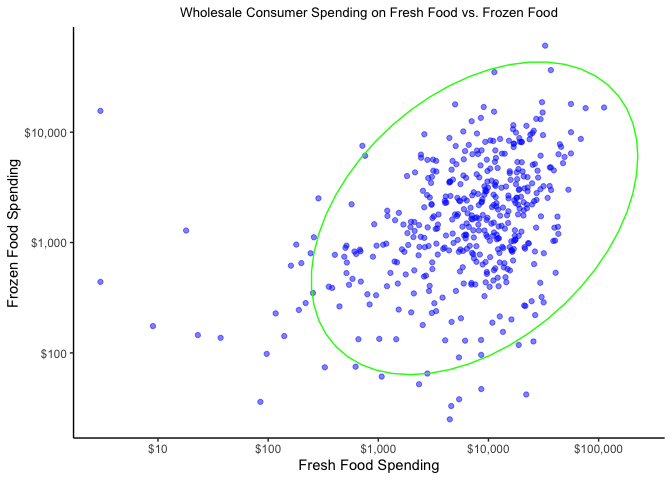
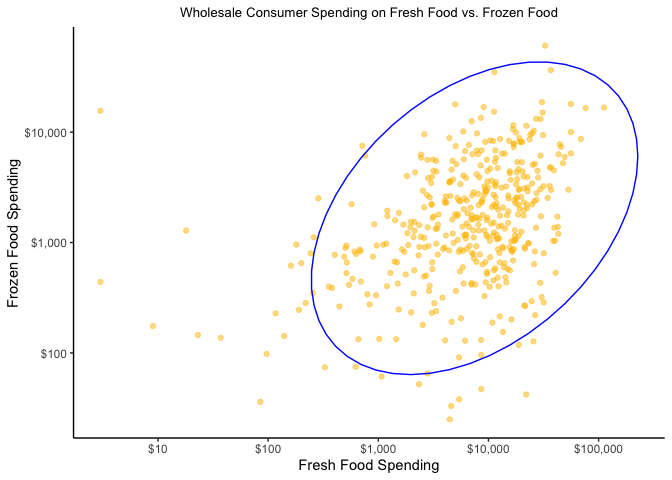
Sunday Night Push

diff --git a/Wholesale-Customer-Spending-Clustering.md b/Wholesale-Customer-Spending-Clustering.md
@@ -18,12 +18,19 @@ Rex Manglicmot
 -   <a href="#clustering" id="toc-clustering">Clustering</a>
 -   <a href="#limitations" id="toc-limitations">Limitations</a>
 -   <a href="#conclusions" id="toc-conclusions">Conclusions</a>
+-   <a href="#appendix" id="toc-appendix">Appendix</a>
 -   <a href="#inspiration-for-this-project"
     id="toc-inspiration-for-this-project">Inspiration for this project</a>
 
 ## Status: Continuing Working Document
 
 ## Introduction
+
+<center>
+
+![](https://bestlifeonline.com/wp-content/uploads/sites/3/2018/10/costco-shopping-aisle.jpg?quality=82&strip=1&resize=1250%2C702)
+
+</center>
 
 1)  FRESH: annual spending (m.u.) on fresh products (Continuous);
 2)  MILK: annual spending (m.u.) on milk products (Continuous);
@@ -139,10 +146,10 @@ How much do people spend on fresh versus frozen? Let’s display it.
 ``` r
 #fresh and frozen scatterplot
 ggplot(data, aes(fres, fro)) +
-  geom_point(position = 'jitter', alpha=0.5, color= 'blue') +
+  geom_point(position = 'jitter', alpha=0.5, color= '#FFBF00') +
   scale_y_continuous(trans = 'log10', labels = dollar) +
   scale_x_continuous(trans = 'log10', labels = dollar) +
-  stat_ellipse(level = .99, color = "green") +
+  stat_ellipse(level = .99, color = "blue") +
   theme_classic()+
 labs(title = 'Wholesale Consumer Spending on Fresh Food vs. Frozen Food',
      x = 'Fresh Food Spending',
@@ -154,12 +161,31 @@ labs(title = 'Wholesale Consumer Spending on Fresh Food vs. Frozen Food',
 ![](Wholesale-Customer-Spending-Clustering_files/figure-gfm/unnamed-chunk-5-1.png)<!-- -->
 
 ``` r
-#detergeents and delicacies
-ggplot(data, aes(depa, deli)) +
-  geom_point(position = 'jitter', alpha=.5, color = 'red') +
+#2d density estimation
+ggplot(data, aes(fres, fro)) +
+  geom_point(alpha = 0.5, color = '#FFBF00', position = 'jitter') +
   scale_y_continuous(trans = 'log10', labels = dollar) +
   scale_x_continuous(trans = 'log10', labels = dollar) +
-  stat_ellipse(level = .99, color = "green") +   
+  geom_density_2d() +
+  theme_classic() +labs(title = 'Wholesale Consumer Spending on Fresh Food vs. Frozen Food',
+     x = 'Fresh Food Spending',
+     y = 'Frozen Food Spending') +
+   theme(plot.title = element_text(hjust = 0.5, size=10),
+        plot.caption = element_text(hjust = 0.5))
+```
+
+![](Wholesale-Customer-Spending-Clustering_files/figure-gfm/unnamed-chunk-6-1.png)<!-- -->
+
+How much do people spend on detergents (non-foods) versus delicacies
+(food)? Let’s display it.
+
+``` r
+#detergeents and delicacies
+ggplot(data, aes(depa, deli)) +
+  geom_point(position = 'jitter', alpha=.5, color = '#E34234') +
+  scale_y_continuous(trans = 'log10', labels = dollar) +
+  scale_x_continuous(trans = 'log10', labels = dollar) +
+  stat_ellipse(level = .99, color = "blue") +   
   theme_classic() +
 labs(title = 'Wholesale Consumer Spending on Detergents vs. Delicacies',
      x = 'Detergent Spending',
@@ -168,12 +194,92 @@ labs(title = 'Wholesale Consumer Spending on Detergents vs. Delicacies',
         plot.caption = element_text(hjust = 0.5))
 ```
 
-![](Wholesale-Customer-Spending-Clustering_files/figure-gfm/unnamed-chunk-6-1.png)<!-- -->
+![](Wholesale-Customer-Spending-Clustering_files/figure-gfm/unnamed-chunk-7-1.png)<!-- -->
+
+``` r
+#2d density estimation
+ggplot(data, aes(depa, deli)) +
+  geom_point(position = 'jitter', alpha=.5, color = '#E34234')+
+  scale_y_continuous(trans = 'log10', labels = dollar) +
+  scale_x_continuous(trans = 'log10', labels = dollar) +
+  geom_density_2d() +
+  theme_classic() +
+  labs(title = 'Wholesale Consumer Spending on Detergents vs. Delicacies',
+     x = 'Detergent Spending',
+     y = 'Delicacy Spending') +
+   theme(plot.title = element_text(hjust = 0.5, size=10),
+        plot.caption = element_text(hjust = 0.5))
+```
+
+![](Wholesale-Customer-Spending-Clustering_files/figure-gfm/unnamed-chunk-8-1.png)<!-- -->
+
+How much do people spend on milk?
+
+``` r
+#create a histogram
+ggplot(data, aes(milk)) +
+  geom_histogram(color='#6E260E', fill = '#964B00') +
+  scale_x_continuous(trans = 'log10', labels = dollar) +
+  theme_classic() +
+  labs(title = 'Wholesale Consumer Spending Milk',
+     x = 'Milk Spending',
+     y = 'Count') +
+   theme(plot.title = element_text(hjust = 0.5, size=10),
+        plot.caption = element_text(hjust = 0.5))
+```
+
+![](Wholesale-Customer-Spending-Clustering_files/figure-gfm/unnamed-chunk-9-1.png)<!-- -->
+
+``` r
+ggplot(data, aes(milk, groc)) +
+  geom_bin2d(bins = 20, color ="white")+
+  scale_fill_gradient(low =  "#F2D2BD", high = "#FF00FF")+
+  theme_minimal() +
+  scale_y_continuous(trans = 'log10', labels = dollar) +
+  scale_x_continuous(trans = 'log10', labels = dollar) +
+    theme_classic() +
+   labs(title = 'Wholesale Consumer Spending Milk versus Grocery',
+     x = 'Milk Spending',
+     y = 'Gorcery Spending') +
+   theme(plot.title = element_text(hjust = 0.5, size=10),
+        plot.caption = element_text(hjust = 0.5))
+```
+
+![](Wholesale-Customer-Spending-Clustering_files/figure-gfm/unnamed-chunk-10-1.png)<!-- -->
+
+``` r
+ggplot(data, aes(milk, fro)) +
+  geom_bin2d(bins = 20, color ="white")+
+  scale_fill_gradient(low =  "#B6D0E2", high = "#6E260E")+
+  theme_minimal() +
+  scale_y_continuous(trans = 'log10', labels = dollar) +
+  scale_x_continuous(trans = 'log10', labels = dollar) +
+    theme_classic() +
+     labs(title = 'Wholesale Consumer Spending Milk versus Frozen',
+     x = 'Milk Spending',
+     y = 'Frozen Spending') +
+   theme(plot.title = element_text(hjust = 0.5, size=10),
+        plot.caption = element_text(hjust = 0.5))
+```
+
+![](Wholesale-Customer-Spending-Clustering_files/figure-gfm/unnamed-chunk-11-1.png)<!-- -->
 
 ## Clustering
 
 ## Limitations
 
 ## Conclusions
+
+## Appendix
+
+``` r
+ggplot(data, aes(x=milk, y=groc, size=fres)) +
+  geom_point(position='jitter', alpha=.5, color='#1E8449') +
+  scale_y_continuous(trans = 'log10', labels = dollar) +
+  scale_x_continuous(trans = 'log10', labels = dollar) +
+    theme_classic() 
+```
+
+![](Wholesale-Customer-Spending-Clustering_files/figure-gfm/unnamed-chunk-12-1.png)<!-- -->
 
 ## Inspiration for this project
